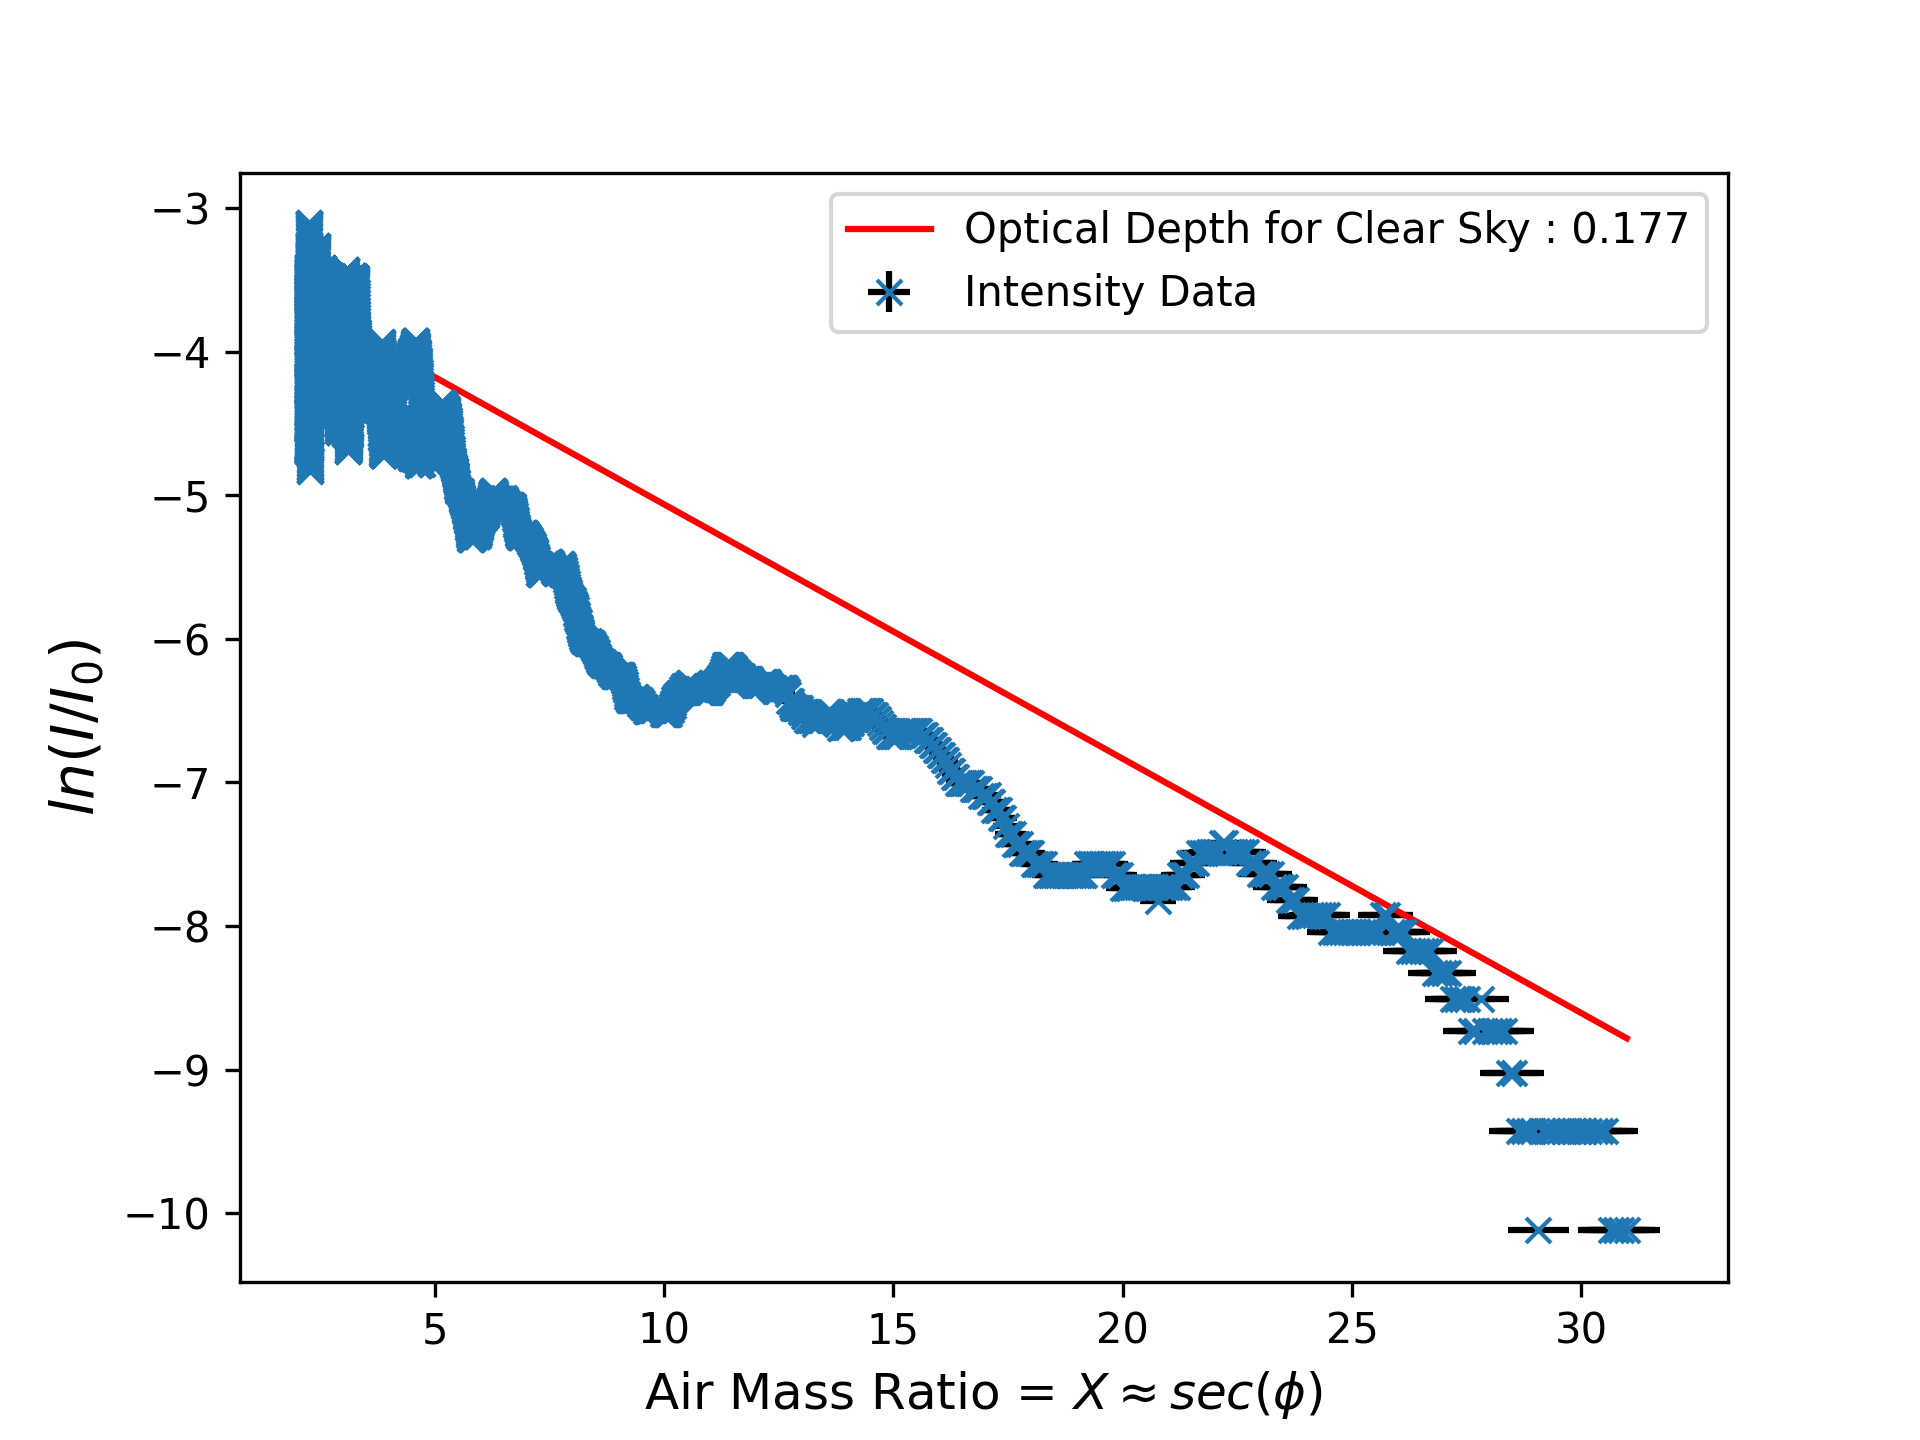
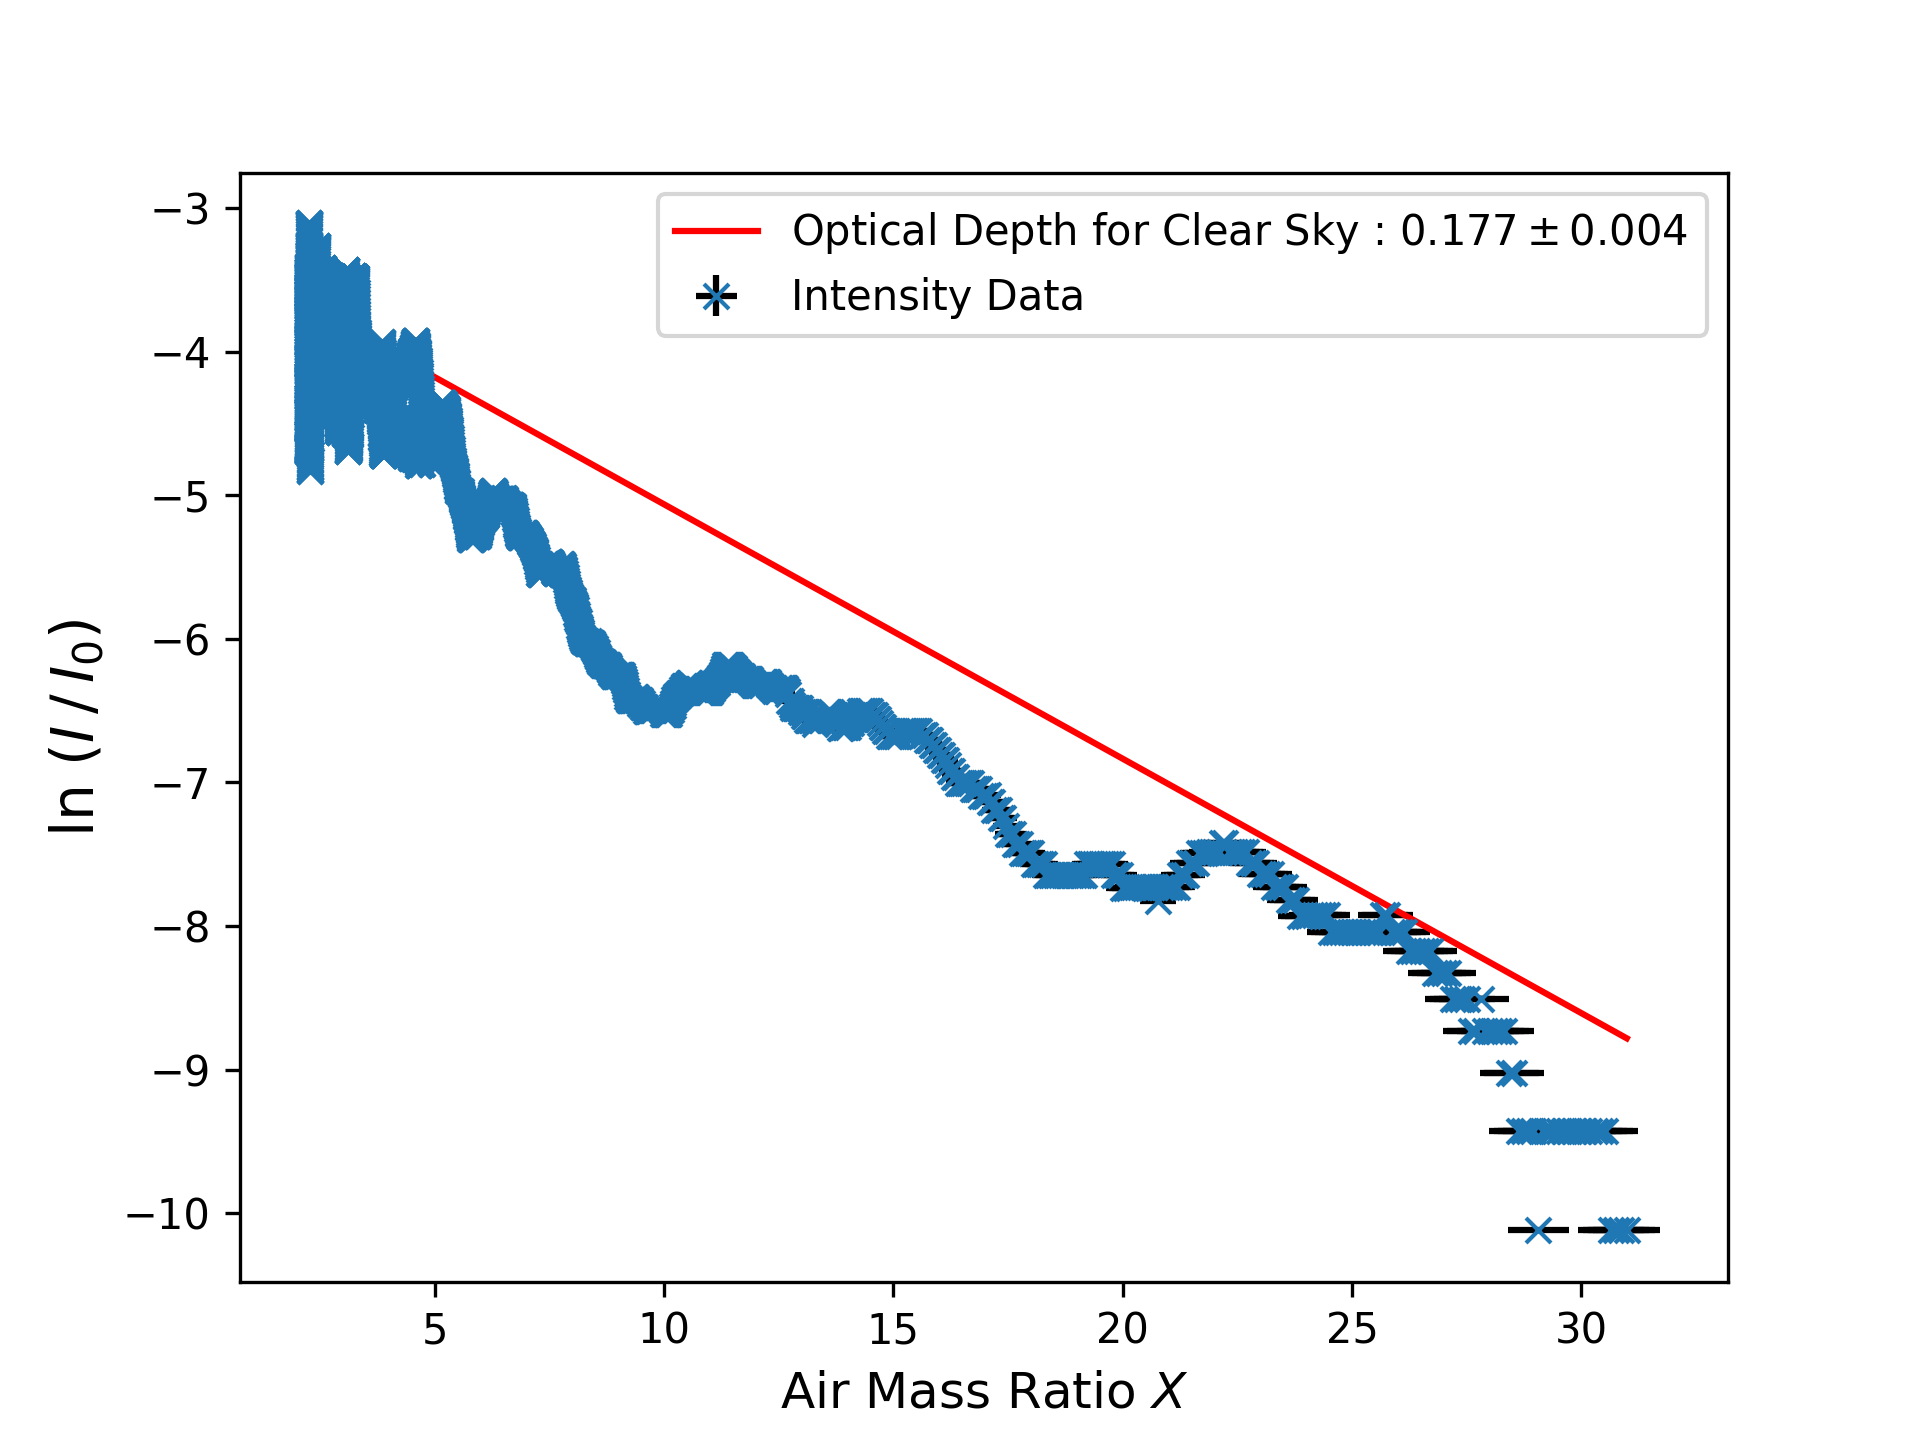
details

Changed region(s): [[0.3438, 0.125, 0.875, 0.25], [0.3438, 0.9375, 0.6875, 1.0], [0.0312, 0.4375, 0.0625, 0.5938]]

diff --git a/optical_depth_automated.py b/optical_depth_automated.py
@@ -52,7 +52,7 @@ def plot_clear_sky(x):
     x = np.array(x)
     y = m * x + c
     
-    plt.plot(x, y, label='Optical Depth for Clear Sky : 0.177' , color = 'red')
+    plt.plot(x, y, label='Optical Depth for Clear Sky : $0.177 \pm 0.004$ ' , color = 'red')
 
 
 def plotting(file):
@@ -144,8 +144,8 @@ def plotting(file):
     ln_I_ratio_err = (ln_I_ratio_max - ln_I_ratio_min)/2
     # Plot the data
     plt.errorbar(air_masses, ln_I_ratio, fmt='x', label='Intensity Data', yerr=ln_I_ratio_err*error_factor*error_factor_2, xerr=air_masses_err*error_factor, ecolor='black')
-    plt.xlabel('Air Mass Ratio = $X \\approx sec (\phi)$', fontsize=12)
-    plt.ylabel('$ln( I / I_0 )$', fontsize=14)
+    plt.xlabel('Air Mass Ratio $= X $', fontsize=12)
+    plt.ylabel('ln $( I \hspace{0.2} / \hspace{0.2} I_0 )$', fontsize=14)
 
     # Perform a linear fit to the data
     coefficients = np.polyfit(air_masses, ln_I_ratio, 1)

diff --git a/functions.py b/functions.py
@@ -133,8 +133,8 @@ def cal_A_and_C(U, U_uncert):
         A.append((A_upper + A_lower)/2)
         A_uncert.append((A_upper - A_lower)/2)
         
-        C_upper = (0.177 - A_lower ) * 1362
-        C_lower = (0.177 - A_upper ) * 1360
+        C_upper = (0.177+0.004 - A_lower ) * 1362 + 5.67*10**-8 * 273**4 * (A_upper - (0.177-0.004))
+        C_lower = (0.177-0.004 - A_upper ) * 1360 + 5.67*10**-8 * 273**4 * (A_lower - (0.177+0.004))
         C.append((C_upper + C_lower)/2)
         C_uncert.append((C_upper - C_lower)/2)
         

diff --git a/main.py b/main.py
@@ -20,7 +20,7 @@ f.rm()
 
 
 
-f.cal_A_and_C([0.270, 0.293, 0.393], [0.001, 0.001, 0.002])
+f.cal_A_and_C([0.270, 0.293, 0.393], [0.007, 0.008, 0.01])
 
 
 
